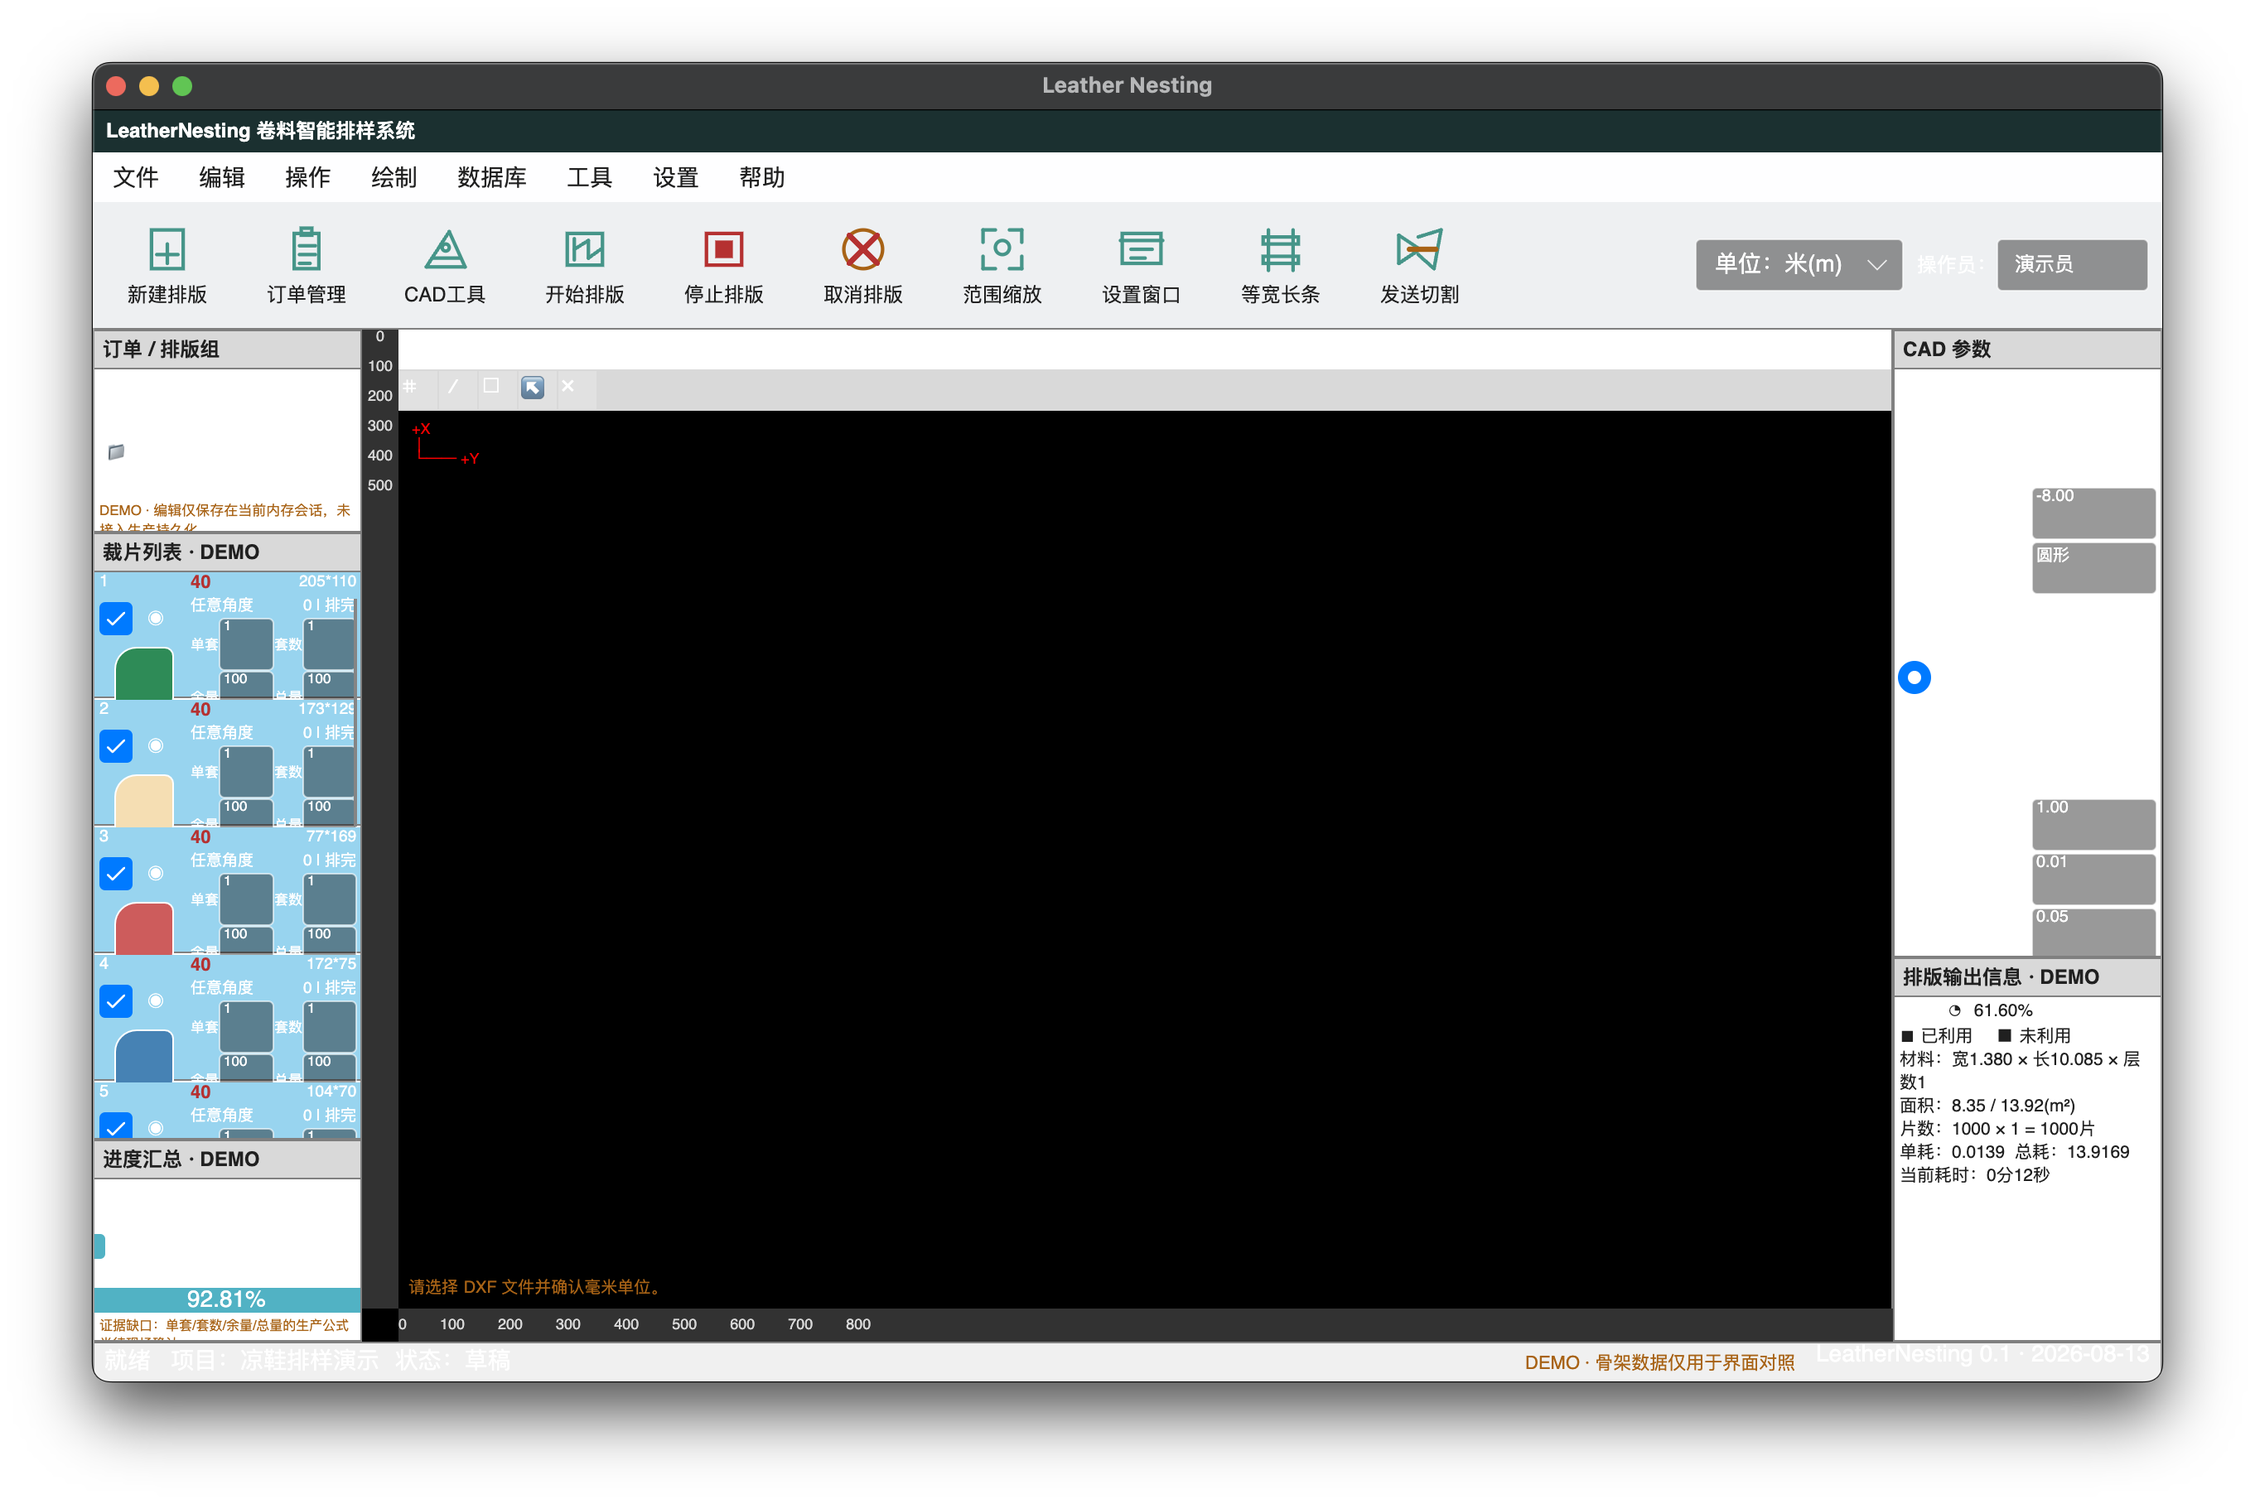
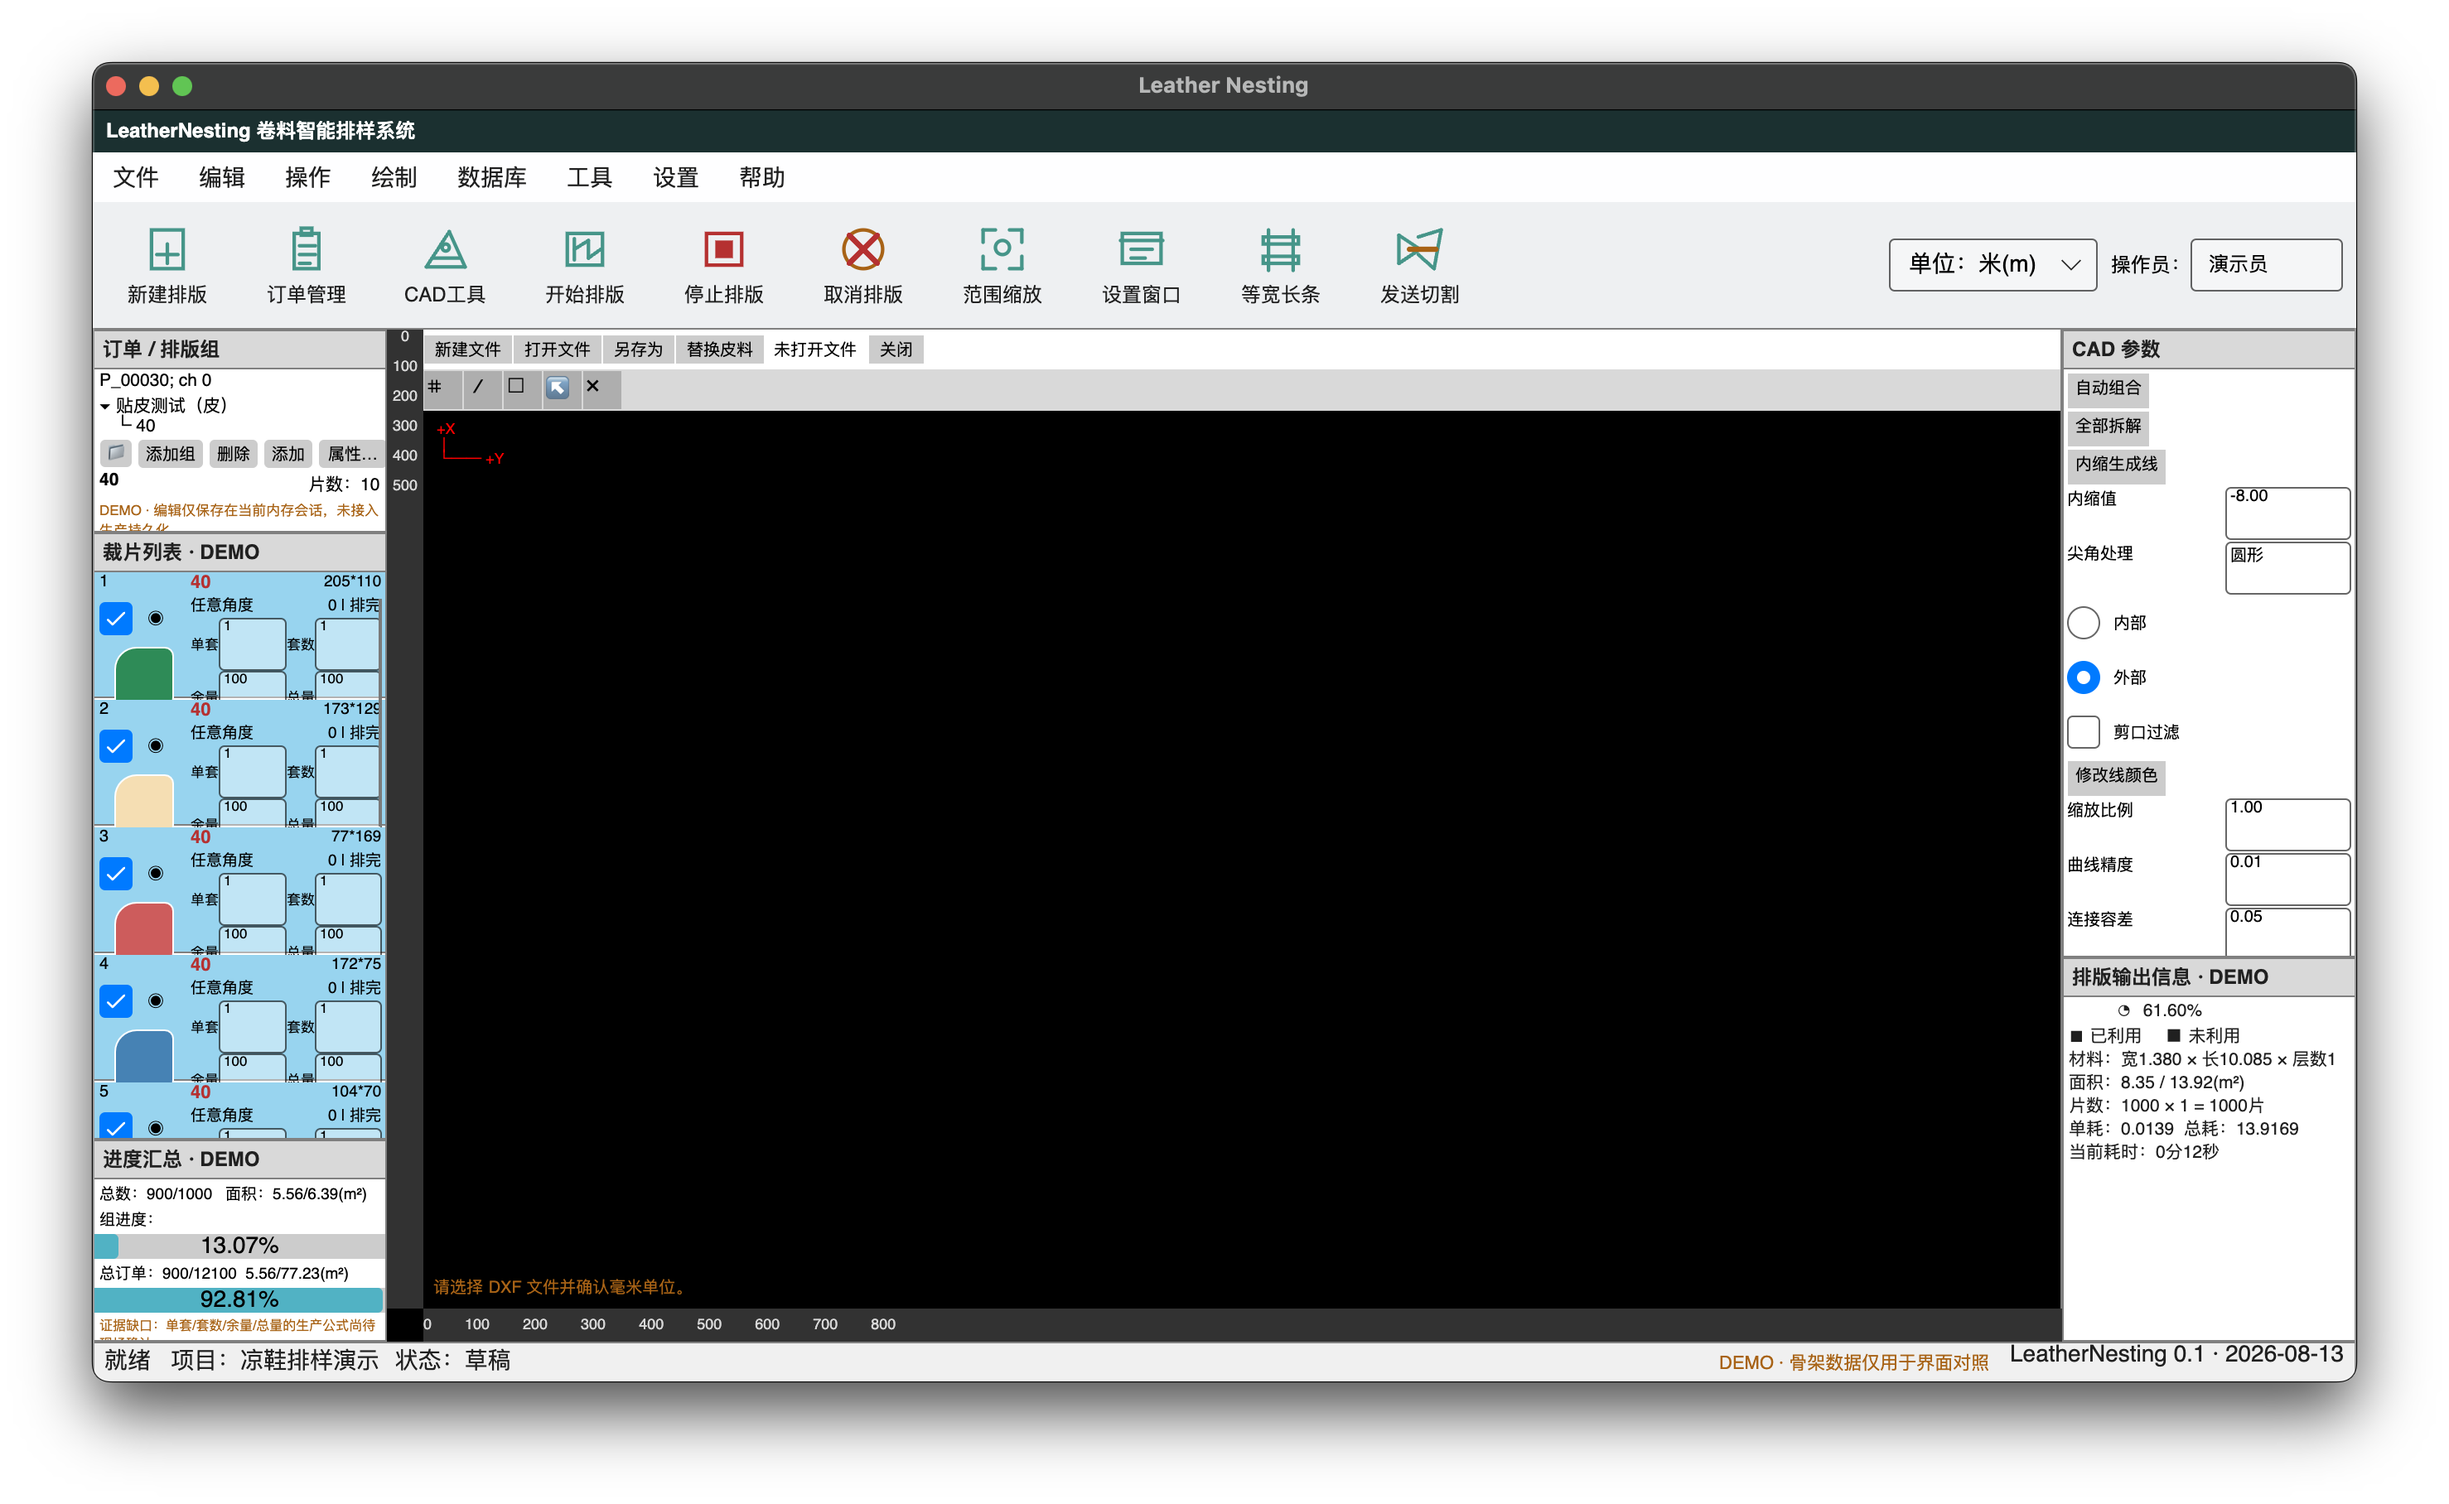
fix(desktop): improve workstation color fidelity

diff --git a/tests/LeatherNesting.Desktop.Tests/DesignSystem/AppThemeColorTests.cs b/tests/LeatherNesting.Desktop.Tests/DesignSystem/AppThemeColorTests.cs
@@ -4,6 +4,7 @@ using Xunit;
 
 namespace LeatherNesting.Desktop.Tests.DesignSystem;
 
+[Collection("Avalonia UI")]
 public sealed class AppThemeColorTests
 {
     [Theory]
@@ -24,7 +25,7 @@ public sealed class AppThemeColorTests
     {
         var property = typeof(AppTheme).GetProperty(propertyName);
         Assert.NotNull(property);
-        var brush = Assert.IsType<SolidColorBrush>(property.GetValue(null));
+        var brush = Assert.IsAssignableFrom<ISolidColorBrush>(property.GetValue(null));
 
         Assert.Equal(Color.FromRgb(red, green, blue), brush.Color);
     }
@@ -69,7 +70,7 @@ public sealed class AppThemeColorTests
 
     private static void AssertNeutral(IBrush brush)
     {
-        var color = Assert.IsType<SolidColorBrush>(brush).Color;
+        var color = Assert.IsAssignableFrom<ISolidColorBrush>(brush).Color;
         Assert.Equal(color.R, color.G);
         Assert.Equal(color.G, color.B);
     }

diff --git a/tests/LeatherNesting.Desktop.Tests/DesignSystem/CloneSurfaceColorTests.cs b/tests/LeatherNesting.Desktop.Tests/DesignSystem/CloneSurfaceColorTests.cs
@@ -1,9 +1,11 @@
 using Avalonia.Controls;
+using Avalonia.Styling;
 using LeatherNesting.Desktop.Composition;
 using LeatherNesting.Desktop.DesignSystem;
 using LeatherNesting.Desktop.Modules.CadCanvas;
 using LeatherNesting.Desktop.Modules.Pieces;
 using LeatherNesting.Desktop.Shell;
+using LeatherNesting.Desktop.Views;
 using Xunit;
 
 namespace LeatherNesting.Desktop.Tests.DesignSystem;
@@ -11,6 +13,12 @@ namespace LeatherNesting.Desktop.Tests.DesignSystem;
 [Collection("Avalonia UI")]
 public sealed class CloneSurfaceColorTests
 {
+    [Fact]
+    public void Fixed_workstation_requests_the_light_control_theme()
+    {
+        Assert.Equal(ThemeVariant.Light, MainWindow.WorkstationThemeVariant);
+    }
+
     [Fact]
     public void Fixed_shell_reuses_chrome_roles_across_top_panes_canvas_and_status()
     {

diff --git a/src/LeatherNesting.Desktop/Views/MainWindow.cs b/src/LeatherNesting.Desktop/Views/MainWindow.cs
@@ -1,4 +1,5 @@
 using Avalonia.Controls;
+using Avalonia.Styling;
 using LeatherNesting.Desktop.Composition;
 using LeatherNesting.Desktop.Shell;
 
@@ -7,6 +8,8 @@ namespace LeatherNesting.Desktop.Views;
 /// <summary>Application entry window. Hosts the demo shell; module pages own their own UI.</summary>
 public sealed class MainWindow : Window
 {
+    public static ThemeVariant WorkstationThemeVariant { get; } = ThemeVariant.Light;
+
     public MainWindow()
     {
         Title = "Leather Nesting";
@@ -14,6 +17,7 @@ public sealed class MainWindow : Window
         MinHeight = 640;
         Width = 1366;
         Height = 768;
+        RequestedThemeVariant = WorkstationThemeVariant;
         Content = new AppShellView(DesktopComposition.CreateShellViewModel());
     }
 }

diff --git a/src/LeatherNesting.Desktop/DesignSystem/AppTheme.cs b/src/LeatherNesting.Desktop/DesignSystem/AppTheme.cs
@@ -1,4 +1,5 @@
 using Avalonia.Media;
+using Avalonia.Media.Immutable;
 
 namespace LeatherNesting.Desktop.DesignSystem;
 
@@ -76,5 +77,5 @@ public static class AppTheme
     public static IBrush DemoPanelBackground => PieceCardCyan;
 
     private static IBrush Brush(byte red, byte green, byte blue, byte alpha = 0xFF) =>
-        new SolidColorBrush(Color.FromArgb(alpha, red, green, blue));
+        new ImmutableSolidColorBrush(Color.FromArgb(alpha, red, green, blue));
 }

diff --git a/.trellis/tasks/08-14-clone-ui-color-fidelity/implement.md b/.trellis/tasks/08-14-clone-ui-color-fidelity/implement.md
@@ -5,20 +5,31 @@
 3. [x] Migrate fixed shell, toolbar, pane hosts, order/piece panels, CAD hosts and property window chrome away from raw/biased colors.
 4. [x] Add component tests for shared surfaces and state colors; confirm layout and behavior contracts remain unchanged.
 5. [x] Run focused Desktop tests, full solution tests, full build and `git diff --check`.
-6. [ ] Launch at 1366×768, capture the native window, inspect reference and implementation with `view_image`, and write a five-area fidelity ledger.
-7. [ ] Fix visible color drift found by the ledger; repeat capture until no fixable color mismatch remains.
+6. [x] Launch at 1366×768, capture the native window, inspect reference and implementation with `view_image`, and write a five-area fidelity ledger.
+7. [x] Fix visible color drift found by the ledger; repeat capture until no fixable color mismatch remains.
 
 ## Verification Results
 
 - Palette RED: focused test failed on the former green/warm values for title, menu, toolbar, panel, header, piece card, progress and icon roles.
 - Component RED: focused test failed while status and property surfaces still used header gray or transparent inheritance.
-- Focused Desktop color contracts: 19 passed after review added the compatibility-alias contract.
-- Desktop test project: 165 passed.
-- Full solution tests: 252 passed (165 Desktop, 55 Geometry, 22 Infrastructure, 7 Application, 2 Domain, 1 end-to-end).
+- Focused Desktop palette/top-command contracts: 23 passed before native capture;
+  the final menu/status/light-theme regression filter passed 3 tests.
+- Desktop test project: 167 passed.
+- Full solution tests: 259 passed (167 Desktop, 60 Geometry, 22 Infrastructure,
+  7 Application, 2 Domain, 1 end-to-end).
 - Full solution build: succeeded with 0 warnings and 0 errors.
 - `git diff --check`: passed.
 - Task-scoped `dotnet format --verify-no-changes`: passed. The repository-wide formatter still reports pre-existing whitespace/final-newline debt in unrelated Geometry, Application, and legacy Desktop files; those files were not modified by this task.
-- Native 1366×768 capture and the five-area fidelity ledger remain pending because macOS Screen Recording permission is unavailable. This is an external acceptance blocker, not a code failure; no GUI capture was attempted during review.
+- Native capture: macOS reported a 1366×796 outer window, matching the requested
+  1366×768 Avalonia client plus the 28 px native title bar. The final Retina capture is
+  stored as `native-1366x768.png`; the five-area comparison is in `fidelity-ledger.md`.
+- The native comparison confirmed the top-menu light-surface/dark-text regression fix.
+- The first capture exposed two additional task-scoped inherited-theme defects: default
+  controls followed macOS dark mode, and status labels inherited white foreground on the
+  light status surface. The fixed workstation now requests the light control theme and its
+  normal status labels explicitly use `PrimaryText`.
+- The final comparison found no remaining fixable color mismatch. It records left piece-card
+  overlap/clipping and sparse right CAD-control placement as out-of-scope layout defects.
 
 ## Check Review
 
@@ -26,6 +37,12 @@
 - Added an explicit same-instance compatibility-alias contract to protect untouched modules.
 - Synchronized `.trellis/spec/frontend/component-guidelines.md` with the implemented chrome, interaction, workstation, and geometry role boundaries.
 - Reviewed the changed runtime paths and found no layout ratios, visible copy, routing, state transitions, or business/data contracts changed. Remaining raw colors in the reviewed clone scope are data-specific CAD layer swatches or transparent vector fills, not duplicated chrome colors.
+- Made the shared palette brushes immutable and kept their palette tests in the Avalonia UI
+  collection. This prevents a later test from reading a mutable brush owned by a different
+  dispatcher thread when the full suite runs in parallel.
+- Final reviewer check: all 167 Desktop tests and the full solution build pass. The current
+  full solution test run is blocked only by unrelated Infrastructure DXF round-trip tests in
+  the concurrently edited export task; no Desktop palette or clone-surface test fails.
 
 ## Risky files / rollback points
 

diff --git a/.trellis/tasks/08-14-clone-ui-color-fidelity/fidelity-ledger.md b/.trellis/tasks/08-14-clone-ui-color-fidelity/fidelity-ledger.md
@@ -1,0 +1,43 @@
+# Native Color Fidelity Ledger
+
+## Evidence and method
+
+- Reference: `05-图片/27.png`, with `10.png`, `14.png`, `16.png`, and `21.png`
+  used as cross-checks for the same fixed workstation surfaces.
+- Implementation: `native-1366x768.png`, captured from the native Avalonia window
+  after the final color repairs. macOS reported a 1366×796 outer window: the requested
+  1366×768 client plus the 28 px native title bar. The PNG is Retina-scaled and includes
+  capture padding; comparison uses the application client, not that padding.
+- A user-provided native screenshot independently confirmed that the formerly unreadable
+  top-menu labels now render dark on the white menu surface.
+- Evidence values were sampled from broad flat regions in the reference. Rendered values
+  were sampled from the final PNG and checked against the semantic `AppTheme` brushes.
+
+## Five-area ledger
+
+| Area | Reference evidence | Final rendered evidence | Mismatch and repair | Result |
+| --- | --- | --- | --- | --- |
+| Title / menu / toolbar | title near `#1B3030`; menu near `#FEFEFF`; toolbar `#EEF0F2`; icon teal `#469589` | `#1B3030`, `#FEFEFF`, `#EEF0F2`, `#469589` | The first native run inherited white text for top-level menu labels and dark-theme default controls. Menu items now explicitly use `PrimaryText`; the fixed workstation requests the light control theme. | Match within screenshot compression; menu text is readable. |
+| Left piece cards | dominant cyan includes `#98D4EF` with compressed near-values such as `#A4D8F0` | card `#98D4EF`; selected/edit surface `#C1E5F5` | Replaced the former green-gray demo surface with `PieceCardCyan`; kept interaction state separate from the base card color. | Base cyan matches. |
+| CAD canvas / rulers | canvas is compressed near-black (`#0A0A0A` family); red material boundary and neutral charcoal rulers | canvas `#000000`; ruler `#323232`; geometry boundary `#FF0000` | Removed green tint from ruler chrome and kept red/white/green geometry roles separate from application chrome. Exact black is the evidence-locked semantic value; the reference near-black variation is capture compression. | No fixable color drift. |
+| Right panel / property controls | panel near `#FFFFFF`; header `#D9D9D9`; thin neutral-gray borders | panel `#FFFFFF`; header `#D9D9D9`; border `#808080` | Property surface was explicitly bound to `PanelSurface`. The light workstation theme repairs gray dark-mode inputs and white inherited labels without changing control placement. | Neutral light controls match the classic surface family. |
+| Status / progress | status near `#F0F0F0`; progress cyan `#51B2C4` | status `#F0F0F0`; progress `#51B2C4`; normal text `#202020` | The first capture exposed white inherited status labels on the light status surface. Status labels now explicitly use `PrimaryText`; the small DEMO notice intentionally remains `WarningText`. | Readable neutral status and matching cyan progress. |
+
+## Intentional and out-of-scope differences
+
+- The macOS native title bar and capture padding are host environment chrome, not part of
+  the cloned Windows client. Product branding replaces competitor identity as required.
+- The final scenario is the deterministic empty-CAD workstation, while image 27 contains a
+  populated nesting result. Geometry population is business/scenario state, not palette drift.
+- Left piece-card labels and inputs overlap or clip at the captured width. This is a verified
+  layout defect owned by the order/piece or visual-integration work, not this color task.
+- Right CAD parameter controls retain large vertical gaps and appear to float in the pane.
+  This is a verified layout/density defect owned by the CAD or visual-integration work.
+- Those layout defects were deliberately not repaired here because this task forbids changing
+  pane geometry, density, ordering, or business state while correcting color fidelity.
+
+## Conclusion
+
+All visible, task-scoped color drift found in the native comparison was repaired. No remaining
+fixable mismatch was observed in the five palette areas; the remaining recorded defects are
+layout/state differences routed to their owning clone tasks.

diff --git a/.trellis/spec/frontend/component-guidelines.md b/.trellis/spec/frontend/component-guidelines.md
@@ -67,6 +67,17 @@ Raw colors remain valid for evidenced per-item geometry or layer swatches whose
 meaning is data-specific. They are forbidden for cloned window chrome, pane
 surfaces, focus state, progress, rulers, or shared canvas semantics.
 
+The fixed workstation requests the light Avalonia control theme explicitly.
+Text placed on evidence-locked light surfaces also sets a semantic foreground;
+do not rely on an operating-system theme to supply menu or status text colors.
+This prevents macOS dark mode from producing white labels or dark default inputs
+inside the cloned classic-light client.
+
+Shared `AppTheme` palette brushes must use `ImmutableSolidColorBrush`, rather
+than mutable dispatcher-owned `SolidColorBrush`. Palette contract tests use
+`ISolidColorBrush` and join the Avalonia UI collection, so the full parallel
+suite cannot read a mutable brush from another dispatcher thread.
+
 ---
 
 ## Accessibility
